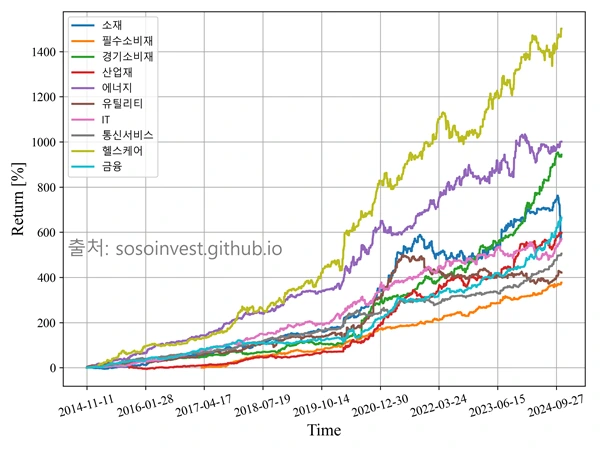
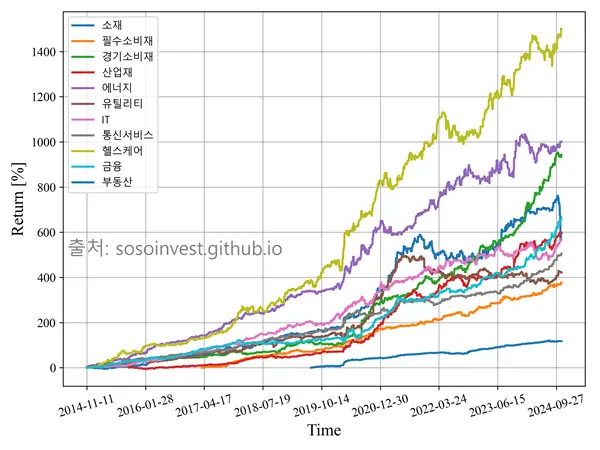
2024-11-17 포스팅36 수정1

Changed region(s): [[0.57, 0.7467, 0.93, 0.8089], [0.12, 0.3733, 0.27, 0.4356], [0.51, 0.8089, 0.57, 0.84]]

diff --git a/_posts/2024-11-15-sector-etf-short-term-strategy.md b/_posts/2024-11-15-sector-etf-short-term-strategy.md
@@ -16,30 +16,31 @@ header:
 ---
 국장에서 단타로 먹기 가장 좋은 섹터는 어디일까? 
 
-지난 10년간의 주가 데이터를 기반으로 섹터별로 [변동성 돌파전략](/투자/volatility-break-out-strategy/)을 적용해봤다.
+지난 10년간의 주가 데이터를 기반으로 섹터별로 [변동성 돌파전략](/투자/volatility-break-out-strategy/)을 적용해서 분석했다.
 
-먼저 섹터에 대해 정리하고 출발하자.
+질문에 대한 답은 글의 마지막에 있다. 답을 보기전에 먼저 섹터란 무엇인가 정리하고 출발하자.
 
 # 섹터(Sector)
 섹터(Sector)는 섹터는 유사한 비즈니스 특성, 경제적 특성, 또는 시장 특성을 공유하는 기업들의 그룹을 의미한다.
 
 이렇게 섹터를 구분하는 목적은 경제 활동을 체계적으로 분류하고 분석하기 위함에 있다. 이를 통해 투자자들이 시장을 쉽게 이해하고 분석할 수 있다.
 
-섹터는 대표적으로 GICS(Global Industry Classification Standard) 분류기준에 따라 11개(IT, 금융, 헬스케어, 소비재, 에너지, 산업재, 소재, 유틸리티, 부동산, 통신서비스, 필수소비재)로 구분된다. 국가별로 자체 구분체계가 있기도 한데, 세계 표준은 GICS다. 
+섹터는 대표적으로 **GICS(Global Industry Classification Standard)** 분류기준에 따라 11개(**IT**, **금융**, **헬스케어**, **소비재**, **에너지**, **산업재**, **소재**, **유틸리티**, **부동산**, **통신서비스**, **필수소비재**)로 구분된다. 국가별로 자체 구분체계가 있기도 한데, 세계 표준은 GICS다. 
 
 각 섹터는 고유한 경제적 특성, 성장 동인, 위험 요소를 가진다. 그렇기 때문에 경제 주기에 따라 각 섹터의 성과가 다르게 나타날 수 있다.
 
-이러한 특성 때문에 다양한 분야에서 섹터가 활용되고 있다. 대표적으로 투자자들은 섹터 분산을 통해 포트폴리오의 위험을 관리할 수 있고, 섹터의 성과를 통해 전반적인 경제 상황을 파악할 수도 있다. 또한 정부나 중앙은행은 경제정책 수립에 섹터별 분석을 이용하기도 한다.
+이러한 특성 때문에 다양한 분야에서 섹터가 활용되고 있다. 대표적으로 투자자들은 섹터 분산을 통해 포트폴리오의 위험을 관리할 수 있고, 섹터의 성과를 통해 전반적인 경제 상황을 파악할 수도 있다. 또한 정부나 중앙은행은 경제 정책 수립에 섹터별 분석을 이용하기도 한다.
 
 ## GICS(Global Industry Classification Standard)
-[GICS는 1999년 MSCI와 S&P가 공동개발한 산업분류체계이다](https://www.msci.com/our-solutions/indexes/gics). 개발 당시에는10개 섹터로 시작했는데, 2016년에 부동산이 금융 섹터에서 분리되어 11번째 섹터로 추가되었다.
+[GICS](https://www.msci.com/our-solutions/indexes/gics)는 1999년 MSCI와 [S&P](/투자/snp-historical-return-since-1871/#sp-500-지수)가 공동개발한 산업분류체계이다. 개발 당시에는10개 섹터로 시작했는데, 2016년에 부동산이 금융 섹터에서 분리되어 11번째 섹터로 추가되었다.
 
 GICS는 고정된 것이 아니라 정기적으로 검토되어 시장 변화에 맞춰 조정된다. 떄문에 다양한 이유로 새로운 섹터가 생기기도 하고 기존의 섹터에 속한 기업의 리스트가 바뀌기기도 한다.
 
-2024년 현재 기준으로 국장의 11개 섹터들의 특징을 정리하면 다음과 같다.
+아래에서는 GICS 기준에 따라 분류된 국장의 11개 섹터의 특징을 정리한다. 
 
 ### 소재
 2000년대 중국의 고성장 시기에 강세를 보였으며, 최근에는 2차전지 관련 소재 기업들의 성장이 두드러진다.
+
 <table style="border-collapse: collapse; width: 100%; text-align: center; font-family: Arial, sans-serif;">
   <thead>
     <tr style="background-color: #51555d; border-bottom: 2px solid #ddd;">
@@ -73,6 +74,7 @@ GICS는 고정된 것이 아니라 정기적으로 검토되어 시장 변화에
 
 ### 필수소비재 
 경기 방어적 특성으로 안정적인 흐름을 보이고 있으며, 최근 언택트 소비 확대로 온라인 유통 기업들의 성장이 두드러진다.
+
 <table style="border-collapse: collapse; width: 100%; text-align: center; font-family: Arial, sans-serif;">
   <thead>
     <tr style="background-color: #51555d; border-bottom: 2px solid #ddd;">
@@ -140,6 +142,7 @@ GICS는 고정된 것이 아니라 정기적으로 검토되어 시장 변화에
 
 ### 산업재
 경제 성장기에 강세를 보이며, 특히 조선, 자동차 등 한국의 주력 산업 성장과 함께 발전해왔다.
+
 <table style="border-collapse: collapse; width: 100%; text-align: center; font-family: Arial, sans-serif;">
   <thead>
     <tr style="background-color: #51555d; border-bottom: 2px solid #ddd;">
@@ -173,6 +176,7 @@ GICS는 고정된 것이 아니라 정기적으로 검토되어 시장 변화에
 
 ### 에너지
 국제 유가 변동에 민감하게 반응하며, 2000년대 중반 고유가 시기에 강세를 보였으나, 최근에는 신재생 에너지 기업들의 성장이 두드러진다.
+
 <table style="border-collapse: collapse; width: 100%; text-align: center; font-family: Arial, sans-serif;">
   <thead>
     <tr style="background-color: #51555d; border-bottom: 2px solid #ddd;">
@@ -206,6 +210,7 @@ GICS는 고정된 것이 아니라 정기적으로 검토되어 시장 변화에
 
 ### 유틸리티
 안정적인 실적을 바탕으로 꾸준한 흐름을 보이고 있으며, 최근 ESG 투자 확대로 주목받고 있다.
+
 <table style="border-collapse: collapse; width: 100%; text-align: center; font-family: Arial, sans-serif;">
   <thead>
     <tr style="background-color: #51555d; border-bottom: 2px solid #ddd;">
@@ -273,6 +278,7 @@ IT는 빠른 기술 혁신과 높은 성장 잠재력을 가진 섹터이다. 20
 
 ### 통신서비스
 1990년대 말~2000년대 초 이동통신 보급 확대 시기에 강세를 보였으며, 최근에는 5G 상용화로 다시 주목받고 있다.
+
 <table style="border-collapse: collapse; width: 100%; text-align: center; font-family: Arial, sans-serif;">
   <thead>
     <tr style="background-color: #51555d; border-bottom: 2px solid #ddd;">
@@ -339,7 +345,7 @@ IT는 빠른 기술 혁신과 높은 성장 잠재력을 가진 섹터이다. 20
 </table>
 
 ### 금융
-경제 성장과 밀접하게 연관된 섹터로, 1997년 외환위기와 2008년 글로벌 금융위기 때 큰 타격을 받았지만, 이후 꾸준한 회복세를 보이고 있다. 최근 기준금리인상과 벨류업 정책으로 수혜를 입었다.
+경제 성장과 밀접하게 연관된 섹터로, 1997년 외환위기와 2008년 글로벌 금융위기 때 큰 타격을 받았지만, 이후 꾸준한 회복세를 보이고 있다. 최근 급격한 기준금리인상과 벨류업 정책으로 수혜를 입었다.
 
 <table style="border-collapse: collapse; width: 100%; text-align: center; font-family: Arial, sans-serif;">
   <thead>
@@ -374,6 +380,7 @@ IT는 빠른 기술 혁신과 높은 성장 잠재력을 가진 섹터이다. 20
 
 ### 부동산
 한국의 부동산 시장 변화와 밀접하게 연관되어 움직이며, 2000년대 이후 리츠(REITs) 상장으로 투자 접근성이 높아졌다.
+
 <table style="border-collapse: collapse; width: 100%; text-align: center; font-family: Arial, sans-serif;">
   <thead>
     <tr style="background-color: #51555d; border-bottom: 2px solid #ddd;">
@@ -423,14 +430,18 @@ IT는 빠른 기술 혁신과 높은 성장 잠재력을 가진 섹터이다. 20
 | 금융  | TIGER200 금융 | 139270 | KOSPI200 금융 | 2011.04.06 |
 | 부동산  | TIGER 리츠부동산인프라 | 329200 | FnGuide 부동산인프라고배당지수 | 2019.07.19 |
 
-위의 표는 각 섹터별로 대표적인 국장 ETF를 선정하여 정리한 것이다. 일부 섹터의 경우 여러 ETF가 존재할 수 있으며, 여기서는 각 섹터를 대표하는 ETF를 선정했다. 관심가는 섹터에 투자하고 싶으면 위에 정리한 ETF를 매수하면 된다.
+위의 표는 각 섹터별로 대표적인 국장 ETF를 선정하여 정리한 것이다. 일부 섹터의 경우 여러 ETF가 존재할 수 있으며, 여기서는 각 섹터를 대표하는 ETF를 선정했다. 유틸리티 섹터는 GICS 분류에 딱맞는 국장 ETF가 없어서 AI가 추천해준 KODEX 운송을 넣었다. 때문에 정확한 유틸리티 섹터의 특성과 벗어나는 결과가 나올 수 있는 점은 감안해야한다. 마찬가지로 소재 섹터에 딱 맞는 ETF가 없어서 KODEX 철강을 넣었다.
+
+만약 어떤 투자자가 국장의 관심이 있는 섹터에 투자하고 싶으면 위에 정리한 ETF를 매수하면 된다. 
 
 ### 섹터 ETF에 투자하면 좋은 점
 섹터 ETF에 투자하면 다음과 같은 장점이 있다. 
+
 먼저 경기 상황에 따라 수혜를 받는 섹터와 그렇지 못한 섹터 간 수익률 차이가 발생할 때 유리한 섹터에 집중 투자할 수 있다. 
 
-회복기, 확장기, 둔화기, 침체기 등 경기 사이클별로 유리한 섹터가 있는데, 여기에 맞춰서 전략적으로 투자할 수 있다. 마지막으로 시장 상황에 따라 섹터의 비중을 조정하며 유연하게 투자할 수 있다.
+회복기, 확장기, 둔화기, 침체기 등 경기 사이클별로 유리한 섹터가 있는데, 여기에 맞춰서 전략적으로 투자할 수 있다. 
 
+마지막으로 시장 상황에 따라 섹터의 비중을 조정하며 유연하게 투자할 수 있다.
 
 # 백테스트 조건
 - 백테스트 대상: [KODEX 철강](https://m.stock.naver.com/domestic/stock/117680/total), [KODEX 필수소비재](https://m.stock.naver.com/domestic/stock/266410/total), [TIGER200 경기소비재](https://m.stock.naver.com/domestic/stock/139290/total), [TIGER200 산업재](https://m.stock.naver.com/domestic/stock/227550/total), [TIGER200 에너지화학](https://m.stock.naver.com/domestic/stock/117460/total), [KODEX 운송](https://m.stock.naver.com/domestic/stock/140710/total), [TIGER200 IT](https://m.stock.naver.com/domestic/stock/139260/total), [TIGER 방송통신](https://m.stock.naver.com/domestic/stock/098560/total), [TIGER 헬스케어](https://m.stock.naver.com/domestic/stock/143860/total), [TIGER200 금융](https://m.stock.naver.com/domestic/stock/139270/total), [TIGER 리츠부동산인프라](https://m.stock.naver.com/domestic/stock/329200/total)
@@ -440,13 +451,13 @@ IT는 빠른 기술 혁신과 높은 성장 잠재력을 가진 섹터이다. 20
 : *최근 10년 (ETF가 상장한지 10년이 되지 않은 경우에는 상장일부터 2024.11.12까지를 기간으로 잡았다.)
 
 - 세금: 0%
-: *거래세와 ETF의 배당소득세는 계산에서 제외했다.
+: *국장 ETF이기 때문에 거래세와 양도세가 없다. 하루만 보유하는 매매의 특성상 배당을 받을 일도 거의 없기 때문에 배당소득세도 없다.
 
 - 거래 수수료: 0%
 : *거래수수료는 계산에서 제외했는데, 증권사들이 경쟁적으로 수수료를 내리고 있어서 거의 영향을 미치지 않는다.
 
 ## 계산 조건
-변동성 돌파전략의 매매조건은 아래와 같다.
+**변동성 돌파전략**의 매매조건은 아래와 같다.
 
 <div class="notice--primary">
 <ul>
@@ -458,12 +469,14 @@ IT는 빠른 기술 혁신과 높은 성장 잠재력을 가진 섹터이다. 20
 
 변동성 돌파전략은 이미 이전에 많이 다뤘기 때문에 간략하게 정리하고만 넘어간다. 자세한 것은 다음 글들을 참고하기 바란다.
 
-- **[래리 윌리엄스의 변동성 돌파전략 (파이썬 코드 있음)](/투자/volatility-break-out-strategy/)**
-- **[절대로 지지않는 롱 전략](/투자/never-losing-long-strategy)**
-- **[곱버스를 우상향시키는 방법](/투자/upward-sloping-inverse-double)**
+- [래리 윌리엄스의 변동성 돌파전략 (파이썬 코드 있음)](/투자/volatility-break-out-strategy/)
+- [절대로 지지않는 롱 전략](/투자/never-losing-long-strategy)
+- [곱버스를 우상향시키는 방법](/투자/upward-sloping-inverse-double)
 
 # 백테스트 결과
-아래의 표는 백테스트한 모든 ETF에 최근 10년간(2014.11.11~2024.11.12) 변동성 돌파전략을 적용한 결과이다. 여기서는 K값은 0.5로 고정한 후 섹터 ETF간의 결과를 비교했다.
+아래의 표는 백테스트한 모든 ETF에 최근 10년간(2014.11.11~2024.11.12) 변동성 돌파전략을 적용한 결과이다. 여기서는 **K값은 0.5로 고정한 후** 섹터 ETF간의 결과를 비교했다.
+
+통계학자들에 따르면, 어떤 통계치가 의미 있으려면 [최소 200회 이상의 반복](https://www.reddit.com/r/algotrading/comments/10ximsn/how_many_trades_to_know_if_a_strategy_is_valid/)이 필요하다. 이번 백테스트에서는 모든 섹터에서 200회 이상, 그리고 대부분의 섹터에서 600회 이상의 매매가 이루어졌으므로 통계적으로 유의미한 결과로 볼 수 있다. 매매 횟수가 가장 적었던 섹터는 부동산(306회)으로, 이는 해당 ETF가 상장된 지 오래되지 않았기 때문이다.
 
 *표 1: 변동성 돌파전략 백테스트 결과 (K=0.5)*
 
@@ -481,30 +494,36 @@ IT는 빠른 기술 혁신과 높은 성장 잠재력을 가진 섹터이다. 20
 | 샤프지수  | 1.53 | 2.79 | 2.15 | 2.17 | 2.19 | 1.30 | 2.13 | 2.57 | 2.27 | 2.15 | 3.09 |
 | 샤프지수(Buy and hold)  | -0.19 | -0.41 | -0.22 | -0.18 | -0.05 | -0.20 | 0.11 | -0.18 | 0.04 | 0.03 | -0.03 |
 
-결과를 보면, KODEX 인버스는 최종 수익률이 -13.3%로 손실을 기록했지만, KODEX 200선물 인버스 2X와 KODEX 코스닥 선물 인버스는 각각 34.4%와 79.3%의 수익을 냈다. KODEX 인버스가 손실을 기록하긴 했지만, 매수 후 보유 전략(Buy and Hold)과 비교했을 때는 모든 경우에서 더 나은 성과를 보였다.
+**최종수익률** 보면, 모든 섹터에서 지난 10년간 변동성 돌파 전략의 성과가 매수 후 보유(Buy and Hold) 전략을 압도했다. 가장 높은 수익률을 기록한 섹터는 헬스케어로, 10년간 1500%의 수익률을 기록했다. 이는 헬스케어 섹터의 높은 변동성과 꾸준한 성장 덕분으로 보인다. 경기소비재와 에너지와 같은 고변동성 섹터도 각각 943%와 1000%의 높은 수익률을 기록했다.
 
-연평균 복리 수익률(CAGR)을 보면, KODEX 인버스는 -2.1%, KODEX 200선물 인버스 2X(곱버스)는 0.8%, KODEX 코스닥 선물 인버스는 6.0%로, KODEX 코스닥 선물 인버스의 성과가 가장 높았다. 코스피보다 코스닥의 성과가 더 높은 이유는 지난 10년간 코스닥의 변동성이 코스피보다 더 컸기 때문으로 보인다.
+반면, 가장 낮은 수익률을 기록한 섹터는 부동산이었다. 이는 데이터가 2019년부터 축적되어 분석 기간이 짧았던 점과 낮은 변동성으로 기대 수익이 제한적이었던 점 때문으로 보인다. 필수소비재와 유틸리티 같은 저변동성 섹터도 상대적으로 낮은 수익률을 보였다. 한편, 금융 섹터는 최근 몇 년간의 금리 인상과 벨류업 정책 효과 덕분에 준수한 성과를 냈다.
 
-그림을 보면, KODEX 인버스와 곱버스의 손실은 대부분 2022년부터 최근 2년 사이에 발생했다. 이 기간 동안 코스피 지수는 2500선에서 크게 오르지도 내리지도 않았는데도 손실이 발생한 것을 보면, 변동성이 큰 장세에서는 숏 포지션으로 수익을 내기가 쉽지 않다는 것을 알 수 있다. 이는 주가가 하락하는 추세는 비교적 짧게 유지되는 반면, 상승하는 추세는 더 오래 지속되는 경향 때문으로 보인다. 
+지난 10년 동안 코스피 지수가 2000에서 2400으로 약 20% 상승한 것과 비교하면, 섹터별 변동성 돌파 전략의 성과는 매우 놀라운 수준이다.
 
-상승 추세는 길고 하락 추세는 짧다는 설명은 아래의 격언과 들어맞는 결과이다.
->["상승할 때는 쌓아 올리고 하락할 때는 무너진다"](/투자/trading-edge-book-in-out-rule/#매수-밖에-하지-못하는-시장과-종목)
+**연평균 복리 수익률(CAGR)**을 살펴보면, 유틸리티, 통신서비스, 부동산을 제외한 모든 섹터가 20% 이상의 높은 수익률을 기록했다. 특히 헬스케어는 30%로 가장 높았다. 참고로, [워런 버핏의 연평균 수익률](/투자/jim-simons-book)이 20% 초반이라는 점을 감안하면 변동성 돌파 전략의 결과는 매우 인상적이다. 물론, 버핏은 조 단위의 거액을 운용하면서도 이러한 수익률을 유지했다는 점에서 단순히 비교할 수는 없다.
 
-최대 낙폭(MDD)을 살펴보면, 코스피, 코스닥, 곱버스 모두 약 30% 수준으로 비슷한 수준의 손실 위험을 보였다.
+**최대 낙폭(MDD)**을 보면, 소재를 제외하고 대부분 10% 내외로 작았다.
 
-승률은 코스피에서 약 45%, 코스닥에서 약 50%로, 코스닥이 더 나은 성과를 보였다. 50% 이하의 승률에서 수익을 내려면 [RR 비율(=평균 수익률/평균 손실률)](/투자/trading-edge-book)이 약 1.1 이상이어야 하는데, KODEX 인버스는 이 조건을 충족하지 못했다.
+**승률**은 소재(58.0%)와 유틸리티(57.5%)를 제외하고 모두 60% 이상으로 나타났다. 이는 각 섹터에서 한번 추세가 형성되면 그 추세가 오래 지속되기 때문으로 보인다. 승률 60%에서 수익을 내기 위한 최소 [RR 비율(=평균 수익률/평균 손실률)](/투자/trading-edge-book)은 약 0.67 이상이어야 하는데, 모든 섹터에서 RR 비율이 1.12 이상을 기록하며 유리한 트레이딩 조건을 충족했다.
 
-샤프지수는 전부 1미만으로 형편없었다. 
+**샤프 지수**는 소재를 제외하고 모두 2 이상으로 매우 높았고, 특히 부동산이 3.09로 가장 높았다. 이는 부동산 섹터의 변동성이 가장 작았기 때문으로 보인다.
 
 아래의 그림은 모든 백테스트 결과를 종합한 것이다. 
 
 <p align="center">   
     <img src="/images/2024-11-15-sector-etf-short-term-strategy/sector-total.webp" alt="11개 섹터 백테스트 결과">
     <br>
-   <span style="font-style: italic; color: #FFFFFF;">Fig. 1 11개 섹터 백테스트 결과; K는 0.5로 모두 동일하다. </span>
+   <span style="font-style: italic; color: #FFFFFF;">Fig. 1 11개 섹터 백테스트 결과; K는 0.5로 모두 동일하다.; 부동산 섹터는 ETF가 상장한 2019년부터 시작한다.</span>
 </p>
 
+다음은 섹터별로 매수 후 보유와 변동성 돌파전략의 성과를 비교한 그래프다. 대부분의 섹터에서 매수 후 보유전략의 성과가 미미했는데, 변동성 돌파전략은 꾸준히 우상향하는 모습을 보였다.
+
 ## 소재
+- 수익률: 596.7%
+- CAGR: 20.2%
+- 샤프지수: 1.53
+
+소재 섹터는 글로벌 경기와 연관된 고위험-고수익(High risk-High return) 섹터로, 원자재 가격 상승기에 높은 수익을 기록했다. 최근 전기차 배터리와 친환경 산업의 확장으로 장기적으로도 성장성과 변동성이 커질 것으로 보인다. 
 
 <p align="center">   
     <img src="/images/2024-11-15-sector-etf-short-term-strategy/result-materials.webp" alt="소재 섹터 백테스트 결과">
@@ -513,6 +532,11 @@ IT는 빠른 기술 혁신과 높은 성장 잠재력을 가진 섹터이다. 20
 </p>
 
 ## 필수소비재
+- 수익률: 376.9%
+- CAGR: 23.1%
+- 샤프지수: 2.79
+
+필수소비재는 경기 변동에 덜 민감하며, 방어적 특성으로 경기 침체기에도 안정적이다. 한마디로 든든한 국밥같은 섹터다. 떄문에 변동성이 작아서 상대적으로 수익률이 저조한 것으로 보인다. 그러나 작은 변동성 덕분에 샤프지수는 2.79로 매우 높은 수준을 보였다.
 
 <p align="center">   
     <img src="/images/2024-11-15-sector-etf-short-term-strategy/result-consumer-discretionary.webp" alt="필수소비재 섹터 백테스트 결과">
@@ -521,6 +545,11 @@ IT는 빠른 기술 혁신과 높은 성장 잠재력을 가진 섹터이다. 20
 </p>
 
 ## 경기소비재
+- 수익률: 943.4%
+- CAGR: 25.7%
+- 샤프지수: 2.15
+
+경기소비재는 경기 변동에 민감하며, 경기 확장기에는 상승 추세가 오래 유지된다. 경기 국면에 따른 변동성이 높아서 변동성 돌파전략으로 높은 수익률과 샤프지수를 얻을 수 있었다.
 
 <p align="center">   
     <img src="/images/2024-11-15-sector-etf-short-term-strategy/result-consumer-staples.webp" alt="경기소비재 섹터 백테스트 결과">
@@ -529,6 +558,11 @@ IT는 빠른 기술 혁신과 높은 성장 잠재력을 가진 섹터이다. 20
 </p>
 
 ## 산업재
+- 수익률: 598.5%
+- CAGR: 23.5%
+- 샤프지수: 2.17
+
+산업재는 글로벌 경기와 원자재 가격 변동에 민감한 특징이 있다. 2010년대 중반 중동 인프라 수요 증가로 상승 추세를 형성했는데, 2015년 이후로는 섹터 자체는 좋지 못했다. 하지만 변동성 돌파전략은 섹터가 안좋은 시기에도 꾸준히 좋은 성과를 보여줬다.
 
 <p align="center">   
     <img src="/images/2024-11-15-sector-etf-short-term-strategy/result-industrials.webp" alt="산업재 섹터 백테스트 결과">
@@ -537,6 +571,11 @@ IT는 빠른 기술 혁신과 높은 성장 잠재력을 가진 섹터이다. 20
 </p>
 
 ## 에너지
+- 수익률: 1000.9%
+- CAGR: 26.4%
+- 샤프지수: 2.19
+
+에너지는 유가에 민감하며, 유가 상승기에 높은 성과를 줄 수 있는 섹터이다. 유가 변동성과 지정학적 리스크가 실적에 큰 영향을 주는데 달리 말하면 변동성이 크기 때문에 변동성 돌파전략이 가장 잘 먹힐 수 있는 섹터 중 하나이다. 두번쨰로 수익률이 높았고, 샤프지수도 2.19로 매우 높았다.
 
 <p align="center">   
     <img src="/images/2024-11-15-sector-etf-short-term-strategy/result-materials.webp" alt="소재 섹터 백테스트 결과">
@@ -545,6 +584,11 @@ IT는 빠른 기술 혁신과 높은 성장 잠재력을 가진 섹터이다. 20
 </p>
 
 ## 유틸리티
+- 수익률: 421.3%
+- CAGR: 16.8%
+- 샤프지수: 1.3
+
+유틸리티는 내수 중심 산업으로 정책 및 규제의 영향을 크게 받는다. CAGR은 부동산에 이어서 두번쨰로 안좋았는데, 샤프지수 또한 낮아서 변동성을 감수할만한 가치가 떨어진다.
 
 <p align="center">   
     <img src="/images/2024-11-15-sector-etf-short-term-strategy/result-utilities.webp" alt="유틸리티 섹터 백테스트 결과">
@@ -553,6 +597,11 @@ IT는 빠른 기술 혁신과 높은 성장 잠재력을 가진 섹터이다. 20
 </p>
 
 ## IT
+- 수익률: 570.2%
+- CAGR: 20.8%
+- 샤프지수: 2.13
+
+IT 섹터 또한 IT 트렌드와 반도체 수요에 민감한 섹터로 변동성이 크다. 향후 AI로 인한 성장성이 높은 산업으로 변동성이 확대될 것으로 보인다. 변동성 돌파전략이 잘 먹힐 수 있는 좋은 섹터이다.
 
 <p align="center">   
     <img src="/images/2024-11-15-sector-etf-short-term-strategy/result-it.webp" alt="IT 섹터 백테스트 결과">
@@ -561,6 +610,11 @@ IT는 빠른 기술 혁신과 높은 성장 잠재력을 가진 섹터이다. 20
 </p>
 
 ## 통신서비스
+- 수익률: 505.2%
+- CAGR: 19.9%
+- 샤프지수: 2.57
+
+통신서비스는 안정적 배당과 더불어 5G, OTT(스트리밍)와 같은 디지털화 트렌드에 따라 중장기적 성장 가능성을 보유한 섹터다. 안정성과 성장성을 모두 가지고 있는 섹터라서 변동성 돌파전략으로 준수한 수익률과 높은 샤프지수를 얻을 수 있었다.
 
 <p align="center">   
     <img src="/images/2024-11-15-sector-etf-short-term-strategy/result-communication-services.webp" alt="통신서비스 섹터 백테스트 결과">
@@ -569,6 +623,11 @@ IT는 빠른 기술 혁신과 높은 성장 잠재력을 가진 섹터이다. 20
 </p>
 
 ## 헬스케어
+- 수익률: 1501.4%
+- CAGR: 30.9%
+- 샤프지수: 2.27
+
+헬스케어는 고령화와 팬데믹으로 인한 바이오 및 제약 수요가 폭발적으로 증가한 것의 수혜를 본 섹터다. 바이오 주는 신약개발과 임상결과에 따른 변동성이 큰데, 이런 특징이 변동성 돌파전략과 잘 맞아 떨어진다. 수익률과 CAGR 모두 가장 높았고 샤프지수는 2.27로 준수한 결과를 보여줬다.
 
 <p align="center">   
     <img src="/images/2024-11-15-sector-etf-short-term-strategy/result-health-care.webp" alt="헬스케어 섹터 백테스트 결과">
@@ -577,6 +636,11 @@ IT는 빠른 기술 혁신과 높은 성장 잠재력을 가진 섹터이다. 20
 </p>
 
 ## 금융 
+- 수익률: 664.3%
+- CAGR: 22.3%
+- 샤프지수: 2.15
+
+금융은 기준금리와 유동성 정책에 따라른 변동성이 큰 섹터다. 최근 급격한 금리인상과 벨류업 정책으로 큰 변동성이 발생했는데, 이 떄문에 변동성 돌파전략으로 좋은 성과를 보여줬다.
 
 <p align="center">   
     <img src="/images/2024-11-15-sector-etf-short-term-strategy/result-financials.webp" alt="금융 섹터 백테스트 결과">
@@ -585,6 +649,11 @@ IT는 빠른 기술 혁신과 높은 성장 잠재력을 가진 섹터이다. 20
 </p>
 
 ## 부동산
+- 수익률: 117.8% (2019년부터 5년간 성과)
+- CAGR: 16.2%
+- 샤프지수: 3.09
+
+부동산은 REITs 중심으로 안정적인 수익을 제공해주는 필수소비재와 더불어 국밥같은 섹터다. REITs에 투자하면 크게 오를 일도 내릴 일도 없다. 때문에 낮은 변동성으로 변동성 돌파전략과는 잘 맞지 않는다. CAGR은 유틸리티와 마찬가지로 가장 낮은 수준을 보여줬는데, 변동성이 워낙 낮아서 샤프지수는 가장 높았다.
 
 <p align="center">   
     <img src="/images/2024-11-15-sector-etf-short-term-strategy/result-real-estate.webp" alt="부동산 섹터 백테스트 결과">
@@ -594,9 +663,8 @@ IT는 빠른 기술 혁신과 높은 성장 잠재력을 가진 섹터이다. 20
 
 # 결론
 백테스트 결과를 요약하자면,
-- 롱 전략과 달리, 숏에 변동성 돌파 전략을 적용했을 때는 손실이 발생할 수 있다.
-- 그 이유는 하락 추세는 상승 추세보다 상대적으로 짧게 유지되기 때문이다.
-- 전략의 최종 수익과 손실은 K값에 따라 달라지지만, 그 결과는 일관적이지 않았다.
-- 코스닥 인버스에 적용했을 때 가장 좋은 성과를 보였으며, 이때 최적의 K값은 0.4였다.
-- 모든 경우에서 매수 후 보유 전략보다 샤프 지수는 높았고 최대 낙폭(MDD)은 낮았다.
-- 전략의 성과가 고르지 못한 이유는 국내 주식시장의 지수가 일관된 추세를 보이지 않고 변동성이 크기 때문인 것으로 보인다.
+- 섹터별 ETF에 변동성 돌파전략을 적용하면 전체 시장 지수보다 우수한 성과를 거둘 수 있다.
+- 이는 각 섹터가 지수보다 높은 변동성을 보이며, 경기, 정책, 산업 성장의 영향을 더 직접적으로 받기 때문이다.
+- 특히 헬스케어와 고변동성 섹터(에너지, 경기소비재)는 변동성 돌파전략과 매우 잘 맞아 높은 수익률을 제공했다.
+- 반면, 부동산이나 유틸리티 같은 저변동성 섹터는 샤프지수는 높았지만 CAGR이 낮아 전략 선택에 주의가 필요하다.
+- 마지막으로, 국장에서 단타치기 가장 좋은 섹터는 **헬스케어**다. 두번쨰와 세번째는, **에너지**와 **경기소비재**다.
